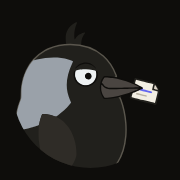
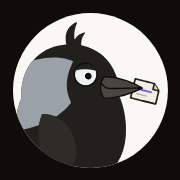
site: the small Jot sits on a cream disc where the ground is dark
Over the home film the nav's outlined avatar was close to invisible: at
32px its body outline scaled to a third of a pixel. The dark nav avatar,
the dark-scheme favicon, the PNG favicon, the home-screen icon, the
logo tile and the docs favicon now carry the brand sheet's cream ground
(#F9F8F4). The light nav is unchanged. Icon links and the dark avatar
get ?v=2 so cached copies refresh; site.css is re-versioned for its
comment change.

diff --git a/index.html b/index.html
@@ -16,16 +16,16 @@
 <meta name="twitter:image" content="https://docbrainapi.com/banner.png?v=2">
 <meta name="twitter:title" content="What one person learns, the whole company keeps.">
 <meta name="twitter:description" content="Nothing your team learns should be learned twice.">
-<link rel="icon" href="/favicon-32.png" sizes="32x32">
-<link rel="icon" href="/favicon.svg" type="image/svg+xml">
-<link rel="apple-touch-icon" href="/apple-touch-icon.png">
-<link rel="stylesheet" href="/assets/site.css?v=b43b288fbf">
+<link rel="icon" href="/favicon-32.png?v=2" sizes="32x32">
+<link rel="icon" href="/favicon.svg?v=2" type="image/svg+xml">
+<link rel="apple-touch-icon" href="/apple-touch-icon.png?v=2">
+<link rel="stylesheet" href="/assets/site.css?v=551d690175">
 <link rel="stylesheet" href="/home.css?v=27">
 </head>
 <body>
 
 <nav id="nav"><div class="wrap navin">
- <a class="brand" href="/"><img class="jot" src="/assets/brand/jot-avatar.svg" alt="" width="40" height="40"><img class="jot jot-d" src="/assets/brand/jot-avatar-dark.svg" alt="" width="40" height="40">DocBrain</a>
+ <a class="brand" href="/"><img class="jot" src="/assets/brand/jot-avatar.svg" alt="" width="40" height="40"><img class="jot jot-d" src="/assets/brand/jot-avatar-dark.svg?v=2" alt="" width="40" height="40">DocBrain</a>
  <div class="nlinks"><a href="/how-it-works/">How it works</a><a href="/pricing/">Pricing</a><a href="/docs/">Docs</a></div>
  <div class="ncta"><a class="btn" href="https://cal.com/docbrain/30min">Book a call</a></div>
 </div></nav>

diff --git a/pricing/index.html b/pricing/index.html
@@ -5,9 +5,9 @@
 <meta name="viewport" content="width=device-width, initial-scale=1, viewport-fit=cover">
 <meta name="color-scheme" content="light">
 <title>DocBrain pricing: never per person</title>
-<link rel="icon" href="/favicon-32.png" sizes="32x32">
-<link rel="icon" href="/favicon.svg" type="image/svg+xml">
-<link rel="apple-touch-icon" href="/apple-touch-icon.png">
+<link rel="icon" href="/favicon-32.png?v=2" sizes="32x32">
+<link rel="icon" href="/favicon.svg?v=2" type="image/svg+xml">
+<link rel="apple-touch-icon" href="/apple-touch-icon.png?v=2">
 <meta property="og:type" content="website">
 <meta property="og:url" content="https://docbrainapi.com/pricing/">
 <meta property="og:title" content="DocBrain pricing: never per person">
@@ -18,7 +18,7 @@
 <meta name="twitter:description" content="Priced by the size of the organisation you connect, not by seats. Unlimited people, unlimited agents.">
 <meta name="twitter:image" content="https://docbrainapi.com/banner.png?v=2">
 <meta name="description" content="DocBrain pricing. Band pricing sized by the connected user base, never per seat. Unlimited people and unlimited AI agents at every band. Free forever up to 25 users.">
-<link rel="stylesheet" href="/assets/site.css?v=b43b288fbf">
+<link rel="stylesheet" href="/assets/site.css?v=551d690175">
 </head>
 <body data-mode="human">
 

diff --git a/how-it-works/index.html b/how-it-works/index.html
@@ -16,9 +16,9 @@
 <meta name="twitter:image" content="https://docbrainapi.com/banner.png?v=2">
 <meta name="twitter:title" content="DocBrain — it warns the next person">
 <meta name="twitter:description" content="Your team already worked this out. The next person has no way to know.">
-<link rel="icon" href="/favicon-32.png" sizes="32x32">
-<link rel="icon" href="/favicon.svg" type="image/svg+xml">
-<link rel="apple-touch-icon" href="/apple-touch-icon.png">
+<link rel="icon" href="/favicon-32.png?v=2" sizes="32x32">
+<link rel="icon" href="/favicon.svg?v=2" type="image/svg+xml">
+<link rel="apple-touch-icon" href="/apple-touch-icon.png?v=2">
 <link rel="stylesheet" href="/style.css?v=3">
 <link rel="stylesheet" href="/brain.css?v=2">
 <link rel="stylesheet" href="/light.css?v=2">

diff --git a/assets/site.css b/assets/site.css
@@ -263,7 +263,7 @@
   .beforeafter figcaption{ font-size:.83rem; color:var(--body); margin-top:1rem; padding-top:.8rem; border-top:1px dashed var(--rule); }
 
   /* Jot sits in the brand lockup. The plain avatar is drawn for light grounds;
-     .jot-d is the outlined one, for where the nav turns dark (home.css). */
+     .jot-d sits on a cream disc, for where the nav turns dark (home.css). */
   .brand .jot{ width:1.6em; height:1.6em; flex:none; }
   .brand .jot-d{ display:none; }
 
